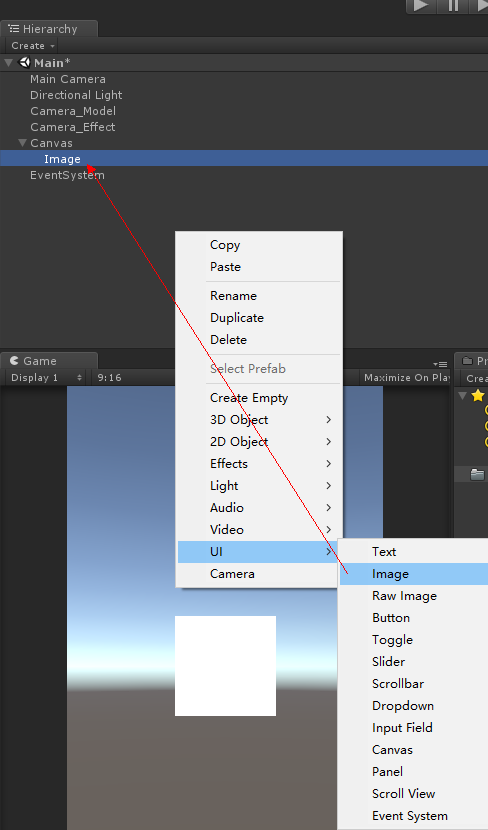
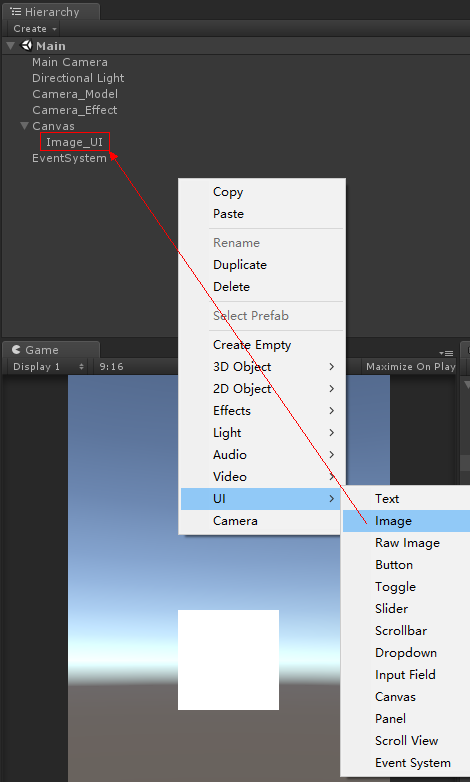
update 日落20191001002 - Unity组件应用之Camera层级控制与FrameDebug应用

diff --git a/blog/日落20191001002 - Unity组件应用之Camera层级控制与FrameDebug应用/日落20191001002 - Unity组件应用之Camera层级控制与FrameDebug应用.md b/blog/日落20191001002 - Unity组件应用之Camera层级控制与FrameDebug应用/日落20191001002 - Unity组件应用之Camera层级控制与FrameDebug应用.md
@@ -12,7 +12,7 @@
 （1-1）以两个Camera作为模型层和特效层的根节点。
  ![pic](./pic/101.png)
 
-（1-2）UI层的根节点默认为Canvas，通过生成UGUI控件（例如Image）时自动生成Canvas和EventSystem。
+（1-2）UI层的根节点默认为Canvas，通过生成UGUI控件（Image_UI）时自动生成Canvas和EventSystem。
  ![pic](./pic/102.png)
 
 （1-3）在模型层（Camera_Model）下创建子控件：文本控件Text_Model、图片控件Image_Model、3D对象Capsule。
@@ -23,37 +23,54 @@
 
 
 
-#### 二、细化布局
+#### 二、调整各控件属性。
 
-（2-1）细化布局前，先添加两个层级（Model和Effect）以供分层管理。
+（2-1）调整各控件属性前，先添加两个层级（Model和Effect）以供分层管理。
  ![pic](./pic/201.png)
 
-（）
- ![pic](./pic/.png)
+（2-2）Camera_Model的属性设置如下：
+ ![pic](./pic/202.png)
 
-（）
- ![pic](./pic/.png)
+（2-3）Text_Model的属性设置如下：
+ ![pic](./pic/203.png)
 
-（）
- ![pic](./pic/.png)
+（2-4）Image_Model的属性设置如下：
+ ![pic](./pic/204.png)
 
-（）
- ![pic](./pic/.png)
+（2-5）Capsule的属性设置如下：
+ ![pic](./pic/205.png)
 
-（）
- ![pic](./pic/.png)
+（2-6）Camera_Effect的属性设置如下：
+ ![pic](./pic/206.png)
 
-（）
- ![pic](./pic/.png)
+（2-7）Image_Effect的属性设置如下：
+ ![pic](./pic/207.png)
 
-（）
- ![pic](./pic/.png)
+（2-8）Particle System的属性设置如下：
+ ![pic](./pic/208.png)
 
-（）
- ![pic](./pic/.png)
+（2-9）Canvas的属性设置如下：
+ ![pic](./pic/209.png)
 
-（）
- ![pic](./pic/.png)
+（2-10）Image_UI的属性设置如下：
+ ![pic](./pic/210.png)
+
+（2-11）在Game窗口中可见通红的界面，显然这并非所想要的结果，而且明显是层级问题。
+ ![pic](./pic/211.png)
+
+
+
+#### 三、通过Frame Debugger观察渲染过程。
+
+（3-）
+ ![pic](./pic/30.png)
+
+
+
+#### 四、通过改变UGUI默认渲染层级，以修正层级问题。
+
+（4-）
+ ![pic](./pic/40.png)
 
 
 
